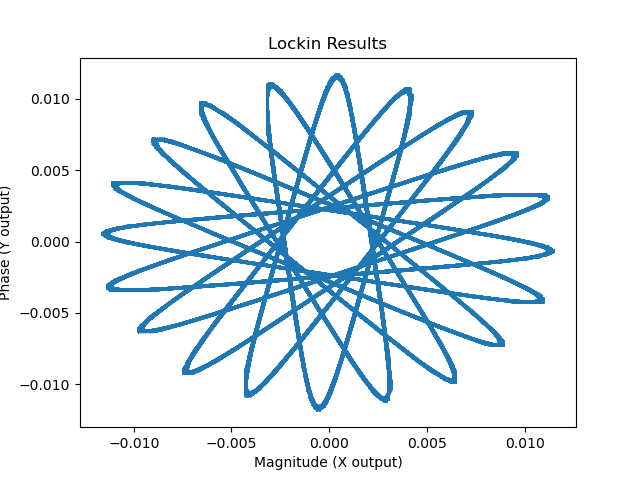
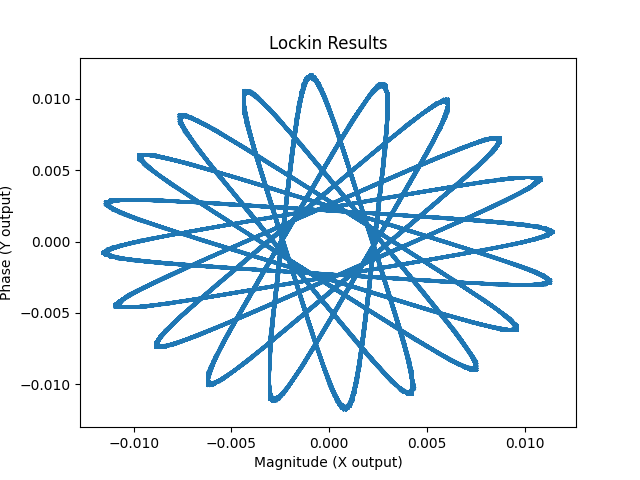
updated rp and tested noise resilience

diff --git a/RedPitaya_v2.py b/RedPitaya_v2.py
@@ -21,67 +21,144 @@ class RedPitaya:
     current_scaling_map = {'10mA': 65, '1mA': 600, '100uA': 6000, '10uA': 60000}
 
     def __init__(self, output_dir='test_data'):
-        self.rp = Pyrpl(config='lockin_config', hostname='169.254.148.168')
+        self.rp = Pyrpl(config='lockin_config', hostname='169.254.131.37')
         self.output_dir = output_dir
 
         self.rp_modules = self.rp.rp
         self.lia_scope = self.rp_modules.scope
         self.lia_scope.input1 = 'iq2'
         self.lia_scope.input2 = 'iq2_2'
-        self.lia_scope.decimation = 16384
+        self.lia_scope.decimation = 8192
+        self.lia_scope._start_acquisition_rolling_mode()
         self.lia_scope.average = 'true'
-        self.sample_rate = 15300
+        self.sample_rate = 125e6/self.lia_scope.decimation
+
+
         self.iq2 = self.rp_modules.iq2
 
-    def capture_single_lockin(self):
-        self.lia_scope.single()
-        ch1 = np.array(self.lia_scope._data_ch1_current)
-        ch2 = np.array(self.lia_scope._data_ch2_current)
-        return ch1, ch2
-
-    def run(self, params, save_file=False):
-
-        ref_freq = params['ref_freq']
-        ref_amp = params['ref_amp']
+    def setup_test_sig(self, params):
         test_freq = params['test_freq']
         test_amp = params['test_amp']
+        noise_freq = params['noise_freq']
+        noise_amp = params['noise_amp']
 
         self.test_sig = self.rp_modules.asg0
+        self.test_noise = self.rp_modules.asg1
 
         self.test_sig.setup(waveform='sin',
                             frequency=test_freq,
                             amplitude=test_amp,
                             offset=0.00,
-                            output_direct='out2',
+                            output_direct='out1',
                             trigger_source='immediately')
+        self.test_noise.setup(waveform='sin',
+                              frequency=noise_freq,
+                              amplitude=noise_amp,
+                              offset=0.00,
+                              output_direct='out1',
+                              trigger_source='immediately')
 
-        self.iq2.setup(frequency=ref_freq,
-                       bandwidth=[-ref_freq*0.99, -ref_freq*0.99,
-                                  ref_freq*1.01, ref_freq*1.01],  # Hz
-                       gain=0.0,
+    def setup_lockin(self, params):
+        self.ref_freq = params['ref_freq']
+        ref_amp = params['ref_amp']
+
+        self.iq2.setup(frequency=self.ref_freq,
+                       bandwidth=[-self.ref_freq * 2, -self.ref_freq, self.ref_freq, self.ref_freq * 2],  # Hz
+                       gain=1.0,
                        phase=0,
                        acbandwidth=0,
                        amplitude=ref_amp,
-                       input='asg0',
-                       output_direct='out1',
+                       input='in1',
+                       output_direct='out2',
                        output_signal='quadrature',
-                       quadrature_factor=10)
+                       quadrature_factor=20)
 
-        X, Y = self.capture_single_lockin()
+    def capture(self):
+        self.lia_scope.single()
+        ch1 = np.array(self.lia_scope._data_ch1_current)
+        ch2 = np.array(self.lia_scope._data_ch2_current)
+        return ch1, ch2
 
-        plt.plot(X[1000:], Y[1000:])
-        plt.title('Lockin Results')
-        plt.xlabel('Magnitude (X output)')
-        plt.ylabel('Phase (Y output)')
+    def see_fft(self, save_file=False):
+        # --- Capture input (e.g. in2) ---
+        self.lia_scope.input1 = 'in2'
+        self.lia_scope.single()
+        data_in = np.array(self.lia_scope._data_ch1_current)
+        N = len(data_in)
+        freqs = np.fft.rfftfreq(N, 1 / self.sample_rate)
+        fft_in = np.fft.rfft(data_in * np.hanning(N))
+        psd_in = (np.abs(fft_in) ** 2) / (self.sample_rate * N)
 
+        # --- Capture lock-in outputs (X = iq2.i, Y = iq2.q) ---
+        self.lia_scope.input1 = 'iq2'
+        time.sleep(0.01)
+        X, Y = self.capture()
+
+        # Combine into magnitude
+        iq = X + 1j*Y
+        N_lock = len(iq)
+        win = np.hanning(N)
+        IQwin = iq * win
+        IQfft = np.fft.fftshift(np.fft.fft(IQwin))
+        freqs_lock = np.fft.fftshift(np.fft.fftfreq(N_lock, 1.0 / self.sample_rate))
+        psd_lock = (np.abs(IQfft) ** 2) / (self.sample_rate * np.sum(win ** 2))
+
+        idx = np.argmax(psd_lock)  # PSD computed as above
+        print("Peak at", freqs[idx], "Hz   (expected difference =", abs(self.test_freq - self.ref_freq), "Hz)")
+        # --- Plot ---
+        fig, ax = plt.subplots(1, 2, figsize=(12, 4))
+
+        ax[0].semilogy(freqs, psd_in, label='Input IN2')
+        ax[0].axvline(self.ref_freq, color='orange', linestyle='--', label='Reference')
+        ax[0].set_xlabel('Frequency (Hz)')
+        ax[0].set_ylabel('Power (a.u.)')
+        ax[0].set_title('Input Signal Spectrum')
+        ax[0].legend()
+        ax[0].grid(True)
+
+        ax[1].semilogy(freqs_lock, psd_lock, label='Lock-in R')
+        ax[1].set_xlabel('Frequency (Hz)')
+        ax[1].set_ylabel('Power (a.u.)')
+        ax[1].set_title('Lock-in Output Spectrum (baseband)')
+        ax[1].legend()
+        ax[1].grid(True)
+
+        plt.tight_layout()
         if save_file:
             if not os.path.exists(self.output_dir):
                 os.makedirs(self.output_dir)
 
-            path = os.path.join(self.output_dir, f'lockin_results_tf_{test_freq}_rf_{ref_freq}.png')
+            path = os.path.join(self.output_dir, f'lockin_FFT_tf_{self.test_freq}_rf_{self.ref_freq}_w_noise.png')
             plt.savefig(path)
         else:
             plt.show()
+
+    def run(self, params, save_file=False, test=True, fft=True):
+        if test:
+            self.test_freq = params['test_freq']
+            self.setup_test_sig(params)
+        self.setup_lockin(params)
+        time.sleep(0.01)
+
+        if fft:
+            self.see_fft(save_file=save_file)
+        else:
+            X, Y = self.capture()
+            t = np.arange(start=0, stop=len(X)/self.sample_rate, step=1/self.sample_rate)
+            plt.plot(t, X)
+            plt.plot(t, Y)
+            plt.title('Lockin Results')
+            plt.xlabel('Time (s)')
+            plt.ylabel('X and Y outputs')
+
+            if save_file:
+                if not os.path.exists(self.output_dir):
+                    os.makedirs(self.output_dir)
+
+                path = os.path.join(self.output_dir, f'lockin_results_tf_{self.test_freq}_rf_{self.ref_freq}_w_noise.png')
+                plt.savefig(path)
+            else:
+                plt.show()
 
 
 if __name__ == '__main__':
@@ -89,12 +166,16 @@ if __name__ == '__main__':
     rp = RedPitaya()
 
     run_params= {
-        'test_freq': 500,
+        'test_freq': 1000,
         'test_amp': 0.2,
-        'ref_freq': 50,
+        'noise_freq': 10000,
+        'noise_amp': 0.05,
+        'ref_freq': 3000,
         'ref_amp': 0.2
     }
 
-    rp.run(run_params, save_file=True)
+    for f in range(1000, 6000, 1000):
+        run_params['test_freq'] = f
+        rp.run(run_params, save_file=False)
 
 
